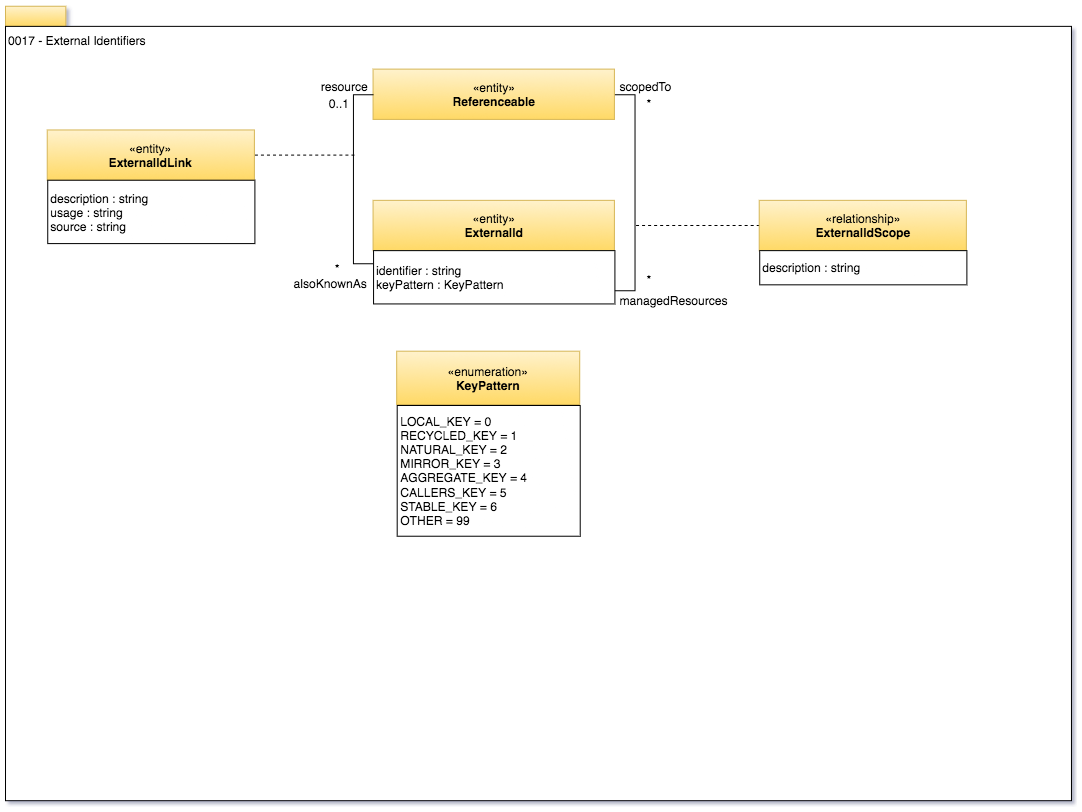
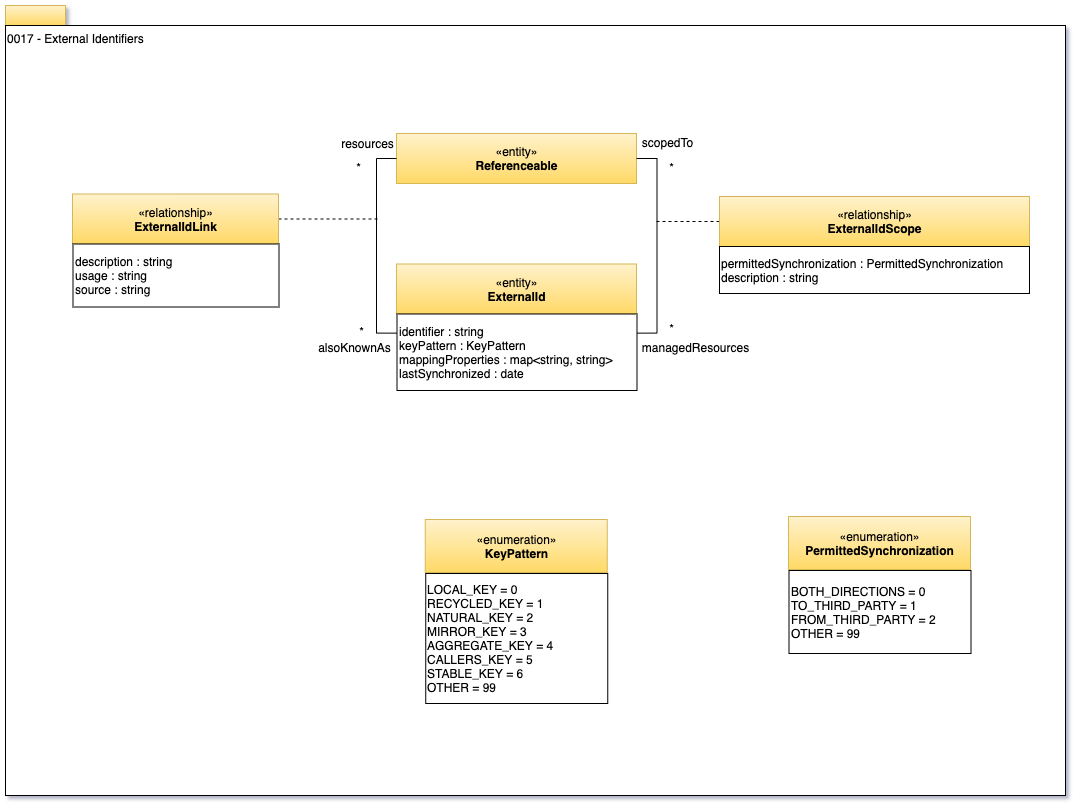
Update types for Asset Manager OMAS

diff --git a/open-metadata-resources/open-metadata-archives/open-metadata-types/src/main/java/org/odpi/openmetadata/opentypes/OpenMetadataTypesArchive.java b/open-metadata-resources/open-metadata-archives/open-metadata-types/src/main/java/org/odpi/openmetadata/opentypes/OpenMetadataTypesArchive.java
@@ -141,7 +141,9 @@ public class OpenMetadataTypesArchive
         update0010BaseModel();
         update0011ManagingReferenceables();
         update0012SearchKeywords();
+        update0017ExternalIdentifiers();
         update0030HostsAndPlatforms();
+        add0056AssetManager();
         add0057IntegrationCapabilities();
         update0150Feedback();
         update0215SoftwareComponents();
@@ -657,7 +659,6 @@ public class OpenMetadataTypesArchive
         return entityDef;
     }
 
-
     private RelationshipDef addSearchKeywordLinkRelationship()
     {
         final String guid            = "d2f8df24-6905-49b8-b389-31b2da156ece";
@@ -766,6 +767,168 @@ public class OpenMetadataTypesArchive
         return relationshipDef;
     }
 
+    /*
+     * -------------------------------------------------------------------------------------------------------
+     */
+
+    /**
+     * 0017 External Identifier - add new properties for integration
+     */
+    private void update0017ExternalIdentifiers()
+    {
+        this.archiveBuilder.addEnumDef(getPermittedSynchronizationEnum());
+        this.archiveBuilder.addTypeDefPatch(updateExternalIdEntity());
+        this.archiveBuilder.addTypeDefPatch(updateExternalIdScopeRelationship());
+    }
+
+    private EnumDef getPermittedSynchronizationEnum()
+    {
+        final String guid            = "973a9f4c-93fa-43a5-a0c5-d97dbd164e78";
+        final String name            = "PermittedSynchronization";
+        final String description     = "Defines the synchronization rules between a third party technology and open metadata.";
+        final String descriptionGUID = null;
+
+        EnumDef enumDef = archiveHelper.getEmptyEnumDef(guid, name, description, descriptionGUID);
+
+        ArrayList<EnumElementDef> elementDefs = new ArrayList<>();
+        EnumElementDef            elementDef;
+
+        final int    element1Ordinal         = 0;
+        final String element1Value           = "BothDirections";
+        final String element1Description     = "Metadata exchange is permitted in both directions.";
+        final String element1DescriptionGUID = null;
+
+        elementDef = archiveHelper.getEnumElementDef(element1Ordinal,
+                                                     element1Value,
+                                                     element1Description,
+                                                     element1DescriptionGUID);
+        elementDefs.add(elementDef);
+
+        final int    element2Ordinal         = 1;
+        final String element2Value           = "ToThirdParty";
+        final String element2Description     = "The third party technology is logically downstream of open metadata and is just receiving metadata.";
+        final String element2DescriptionGUID = null;
+
+        elementDef = archiveHelper.getEnumElementDef(element2Ordinal,
+                                                     element2Value,
+                                                     element2Description,
+                                                     element2DescriptionGUID);
+        elementDefs.add(elementDef);
+
+        final int    element3Ordinal         = 2;
+        final String element3Value           = "FromThirdParty";
+        final String element3Description     = "The third party technology is logically upstream and is publishing metadata to open metadata.";
+        final String element3DescriptionGUID = null;
+
+        elementDef = archiveHelper.getEnumElementDef(element3Ordinal,
+                                                     element3Value,
+                                                     element3Description,
+                                                     element3DescriptionGUID);
+        elementDefs.add(elementDef);
+
+
+        final int    element8Ordinal         = 99;
+        final String element8Value           = "Other";
+        final String element8Description     = "Another synchronization rule.";
+        final String element8DescriptionGUID = null;
+
+        elementDef = archiveHelper.getEnumElementDef(element8Ordinal,
+                                                     element8Value,
+                                                     element8Description,
+                                                     element8DescriptionGUID);
+        elementDefs.add(elementDef);
+
+        enumDef.setElementDefs(elementDefs);
+
+        return enumDef;
+    }
+
+
+    private TypeDefPatch updateExternalIdEntity()
+    {
+        /*
+         * Create the Patch
+         */
+        final String typeName = "ExternalId";
+
+        TypeDefPatch  typeDefPatch = archiveBuilder.getPatchForType(typeName);
+
+        typeDefPatch.setUpdatedBy(originatorName);
+        typeDefPatch.setUpdateTime(creationDate);
+
+        /*
+         * Build the attributes
+         */
+        List<TypeDefAttribute> properties = new ArrayList<>();
+        TypeDefAttribute       property;
+
+        final String attribute1Name            = "mappingProperties";
+        final String attribute1Description     = "Additional properties to aid the mapping to the the element in an external metadata source.";
+        final String attribute1DescriptionGUID = null;
+        final String attribute2Name            = "lastSynchronized";
+        final String attribute2Description     = "Timestamp documenting the last time the metadata element in the external metadata source was synchronized with open metadata.";
+        final String attribute2DescriptionGUID = null;
+
+        property = archiveHelper.getMapStringStringTypeDefAttribute(attribute1Name,
+                                                                    attribute1Description,
+                                                                    attribute1DescriptionGUID);
+
+        properties.add(property);
+
+        property = archiveHelper.getDateTypeDefAttribute(attribute2Name,
+                                                         attribute2Description,
+                                                         attribute2DescriptionGUID);
+        properties.add(property);
+
+
+        typeDefPatch.setPropertyDefinitions(properties);
+        return typeDefPatch;
+    }
+
+
+
+    private TypeDefPatch updateExternalIdScopeRelationship()
+    {
+        /*
+         * Create the Patch
+         */
+        final String typeName = "ExternalIdScope";
+
+        TypeDefPatch  typeDefPatch = archiveBuilder.getPatchForType(typeName);
+
+        typeDefPatch.setUpdatedBy(originatorName);
+        typeDefPatch.setUpdateTime(creationDate);
+
+        /*
+         * Build the attributes
+         */
+        List<TypeDefAttribute> properties = new ArrayList<>();
+        TypeDefAttribute       property;
+
+        final String attribute1Name            = "permittedSynchronization";
+        final String attribute1Description     = "Defines the permitted directions of flow of metadata updates between open metadata and a third party technology.";
+        final String attribute1DescriptionGUID = null;
+        final String attribute2Name            = "description";
+        final String attribute2Description     = "Additional description of the type of synchronization occurring.";
+        final String attribute2DescriptionGUID = null;
+
+
+        property = archiveHelper.getEnumTypeDefAttribute("PermittedSynchronization",
+                                                         attribute1Name,
+                                                         attribute1Description,
+                                                         attribute1DescriptionGUID);
+        properties.add(property);
+        property = archiveHelper.getStringTypeDefAttribute(attribute2Name,
+                                                           attribute2Description,
+                                                           attribute2DescriptionGUID);
+        properties.add(property);
+
+
+        typeDefPatch.setPropertyDefinitions(properties);
+
+        return typeDefPatch;
+    }
+
 
     /*
      * -------------------------------------------------------------------------------------------------------
@@ -824,6 +987,40 @@ public class OpenMetadataTypesArchive
         typeDefPatch.setPropertyDefinitions(properties);
         return typeDefPatch;
     }
+
+
+
+    /*
+     * -------------------------------------------------------------------------------------------------------
+     */
+
+
+    /**
+     * 0056 - Asset Managers are metadata stores that are not functional enough to register as a cohort member.
+     */
+    private void add0056AssetManager()
+    {
+        this.archiveBuilder.addEntityDef(addAssetManagerEntity());
+    }
+
+
+    private EntityDef addAssetManagerEntity()
+    {
+        final String guid            = "03170ce7-edf1-4e94-b6ab-2d5cbbf1f13c";
+        final String name            = "AssetManager";
+        final String description     = "Defines a capability that manages metadata about assets.";
+        final String descriptionGUID = null;
+
+        final String superTypeName = "SoftwareServerCapability";
+
+        return archiveHelper.getDefaultEntityDef(guid,
+                                                 name,
+                                                 this.archiveBuilder.getEntityDef(superTypeName),
+                                                 description,
+                                                 descriptionGUID);
+
+    }
+
 
 
     /*

diff --git a/open-metadata-resources/open-metadata-archives/open-metadata-types/src/main/java/org/odpi/openmetadata/opentypes/OpenMetadataTypesArchive1_2.java b/open-metadata-resources/open-metadata-archives/open-metadata-types/src/main/java/org/odpi/openmetadata/opentypes/OpenMetadataTypesArchive1_2.java
@@ -1415,7 +1415,7 @@ public class OpenMetadataTypesArchive1_2
          * Set up end 1.
          */
         final String                     end1EntityType               = "Referenceable";
-        final String                     end1AttributeName            = "resource";
+        final String                     end1AttributeName            = "resources";
         final String                     end1AttributeDescription     = "Resource being identified.";
         final String                     end1AttributeDescriptionGUID = null;
         final RelationshipEndCardinality end1Cardinality              = RelationshipEndCardinality.ANY_NUMBER;
@@ -11159,7 +11159,7 @@ public class OpenMetadataTypesArchive1_2
     {
         final String guid            = "480e6993-35c5-433a-b50b-0f5c4063fb5d";
         final String name            = "SubjectArea";
-        final String description     = "Identifies a glossary category as a subject area.";
+        final String description     = "Identifies an element as part of a subject area definition.";
         final String descriptionGUID = null;
 
         final String linkedToEntity = "Referenceable";
@@ -11629,7 +11629,7 @@ public class OpenMetadataTypesArchive1_2
 
         final int    element2Ordinal         = 1;
         final String element2Value           = "Action";
-        final String element2Description     = "A requested of required change.";
+        final String element2Description     = "A requested or required change.";
         final String element2DescriptionGUID = null;
 
         elementDef = archiveHelper.getEnumElementDef(element2Ordinal,
@@ -16426,7 +16426,7 @@ public class OpenMetadataTypesArchive1_2
     {
         final String guid            = "c6fe40af-cdd6-4ca7-98c4-353d2612921f";
         final String name            = "SubjectAreaOwner";
-        final String description     = "A role defining a responsibility to manage an asset.";
+        final String description     = "A role defining a responsibility to manage the development and maintainance of a subject area.";
         final String descriptionGUID = null;
 
         final String superTypeName = "GovernanceRole";

diff --git a/open-metadata-publication/website/open-metadata-types/0220-Files-and-Folders.md b/open-metadata-publication/website/open-metadata-types/0220-Files-and-Folders.md
@@ -15,11 +15,11 @@ The root folders (**FileFolders**) are connected to it using the
 [ServerAssetUse](0045-Servers-and-Assets.md) relationship.
 Beneath that are **FileFolders** with **DataFiles**
 nested beneath them.  Data files can also have a symbolic link (**LinkedFile**) to
-a folder to show that it logically belongs to the other content in the
-folder.
+a element to show that it logically belongs to the other content in the
+element.
 
 There is also a special case of a
-**DataFolder** which is a folder that is the container of a collection of
+**DataFolder** which is a element that is the container of a collection of
 data.
 The files and nested folders within it collectively make up the data content.
 They are not individually catalogued.

diff --git a/open-metadata-publication/website/open-metadata-types/0320-Category-Hierarchy.md b/open-metadata-publication/website/open-metadata-types/0320-Category-Hierarchy.md
@@ -5,7 +5,7 @@
 
 The vocabulary for the glossary is organized into a
 hierarchy of categories.
-These categories effectively provide a folder structure
+These categories effectively provide a element structure
 for the glossary.
 
 ![UML](0320-Category-Hierarchy.png#pagewidth)
